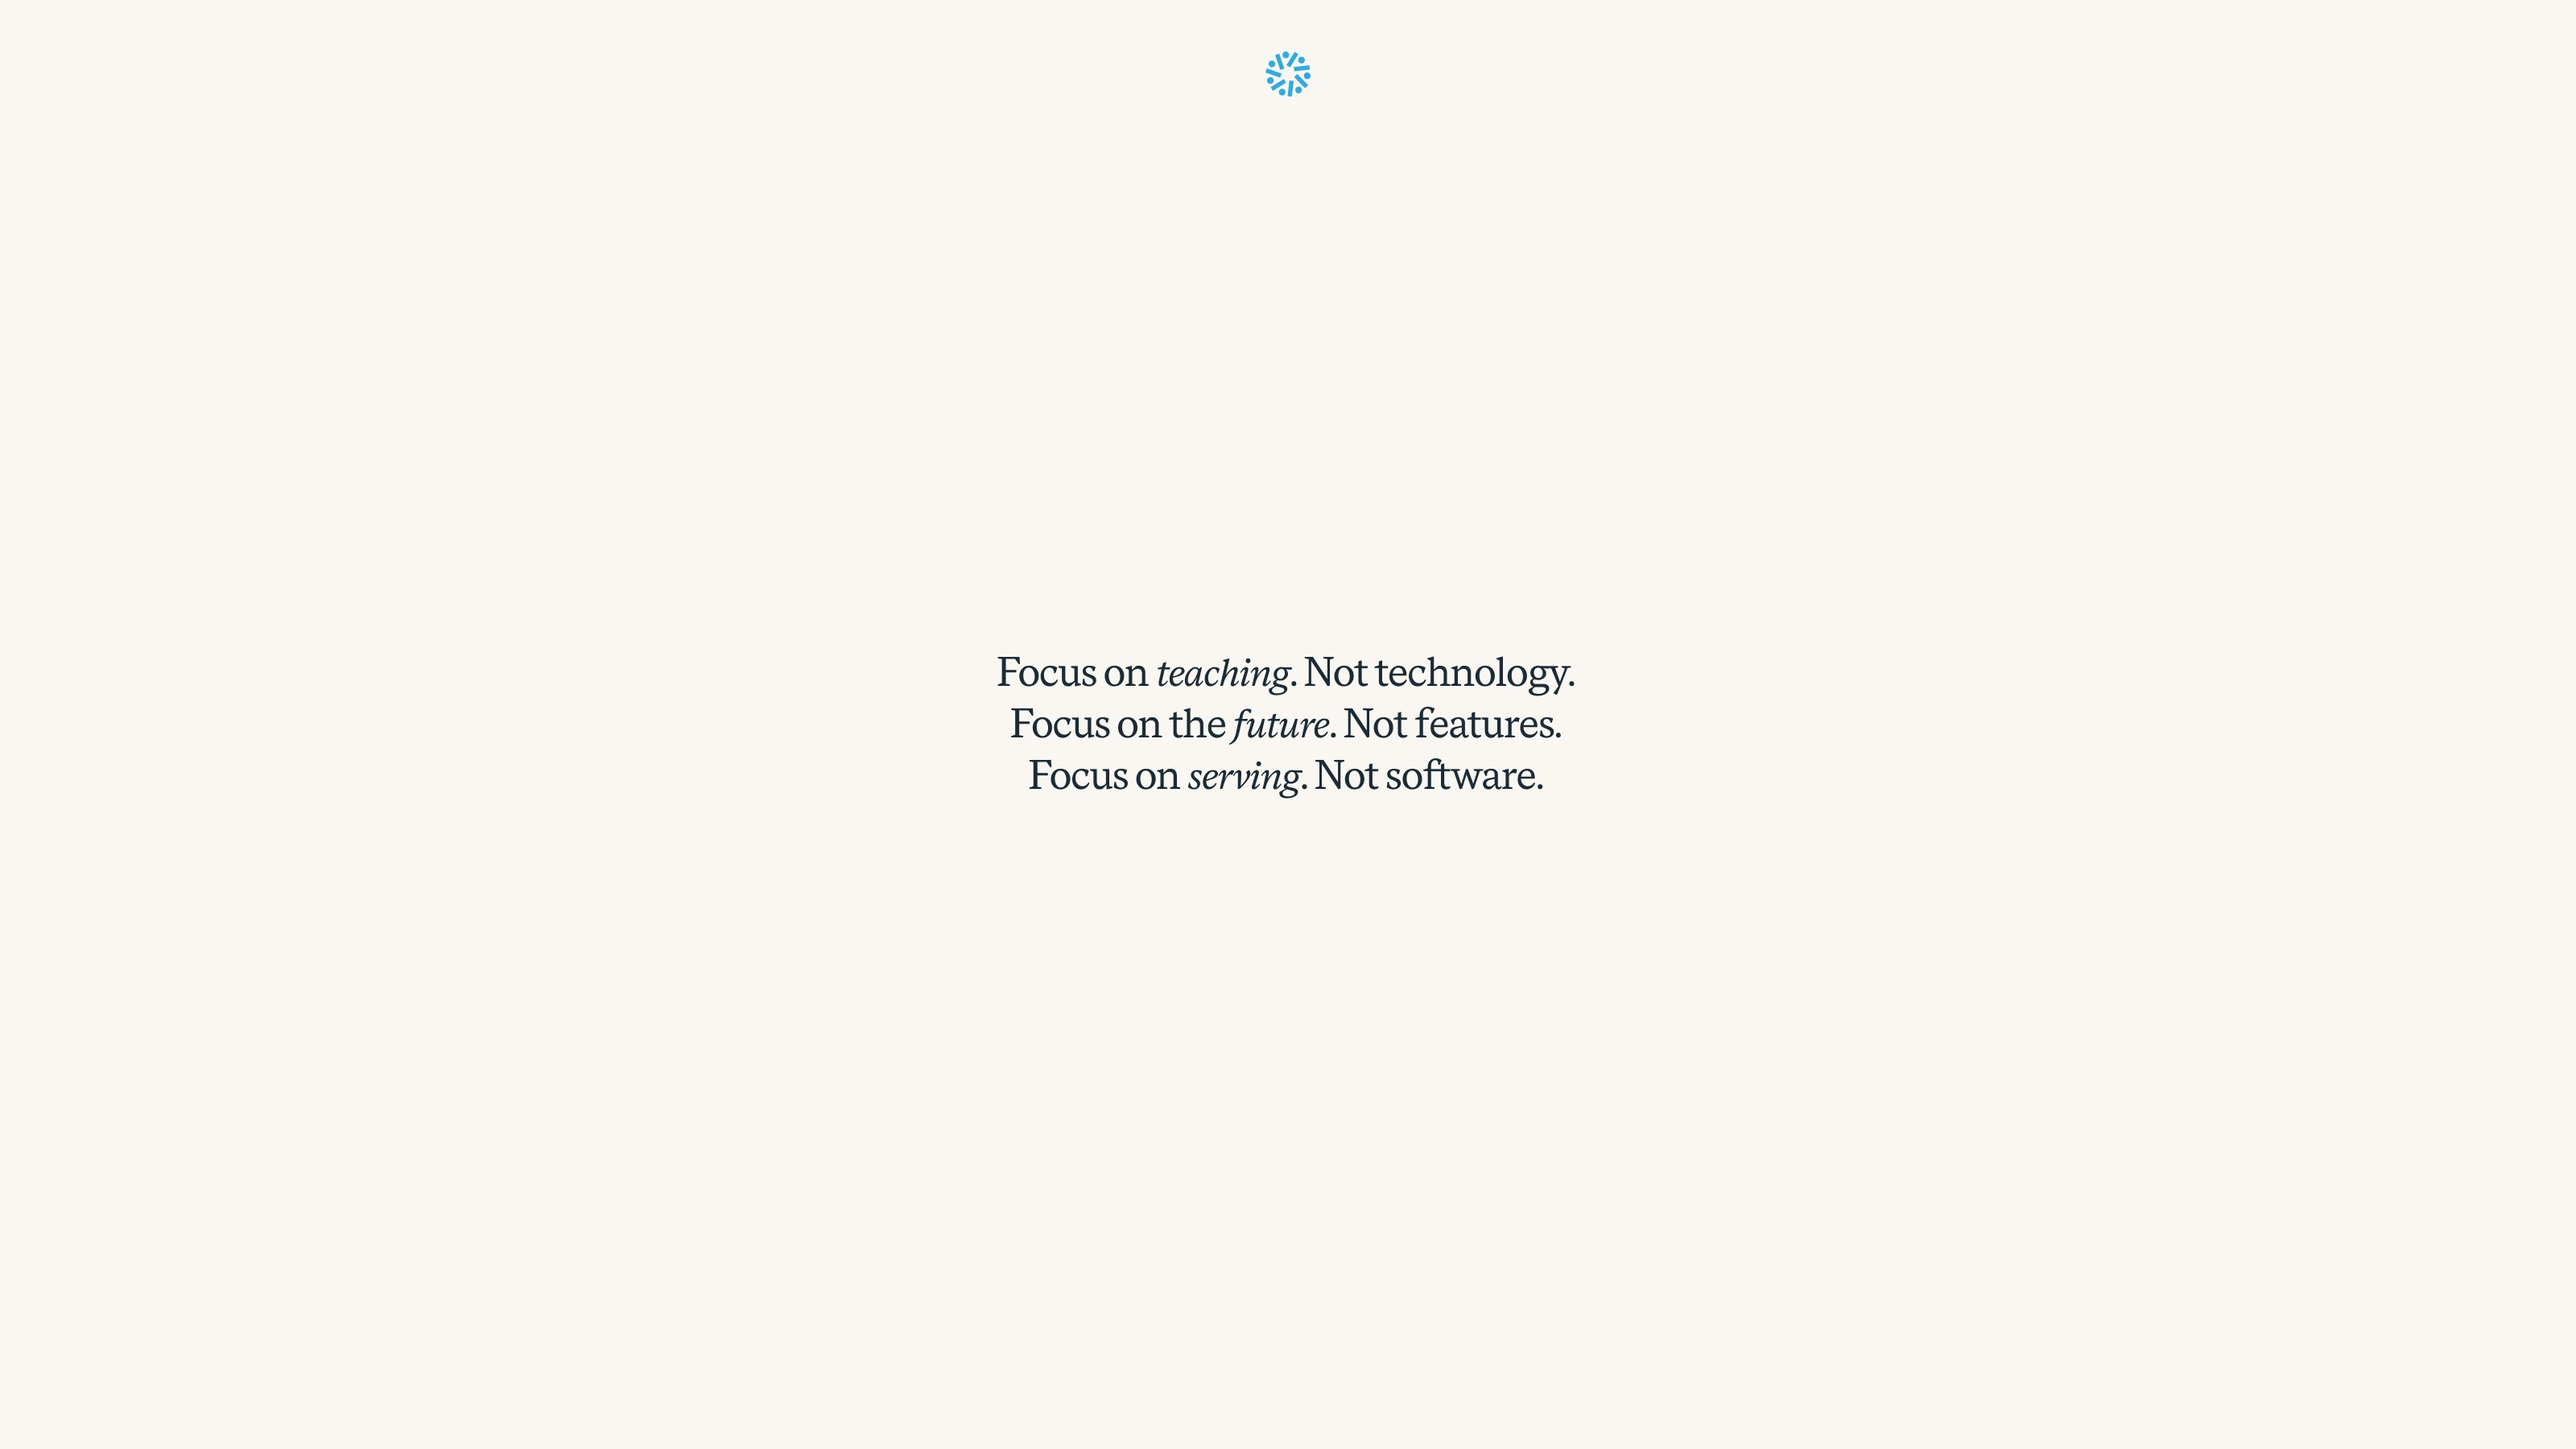
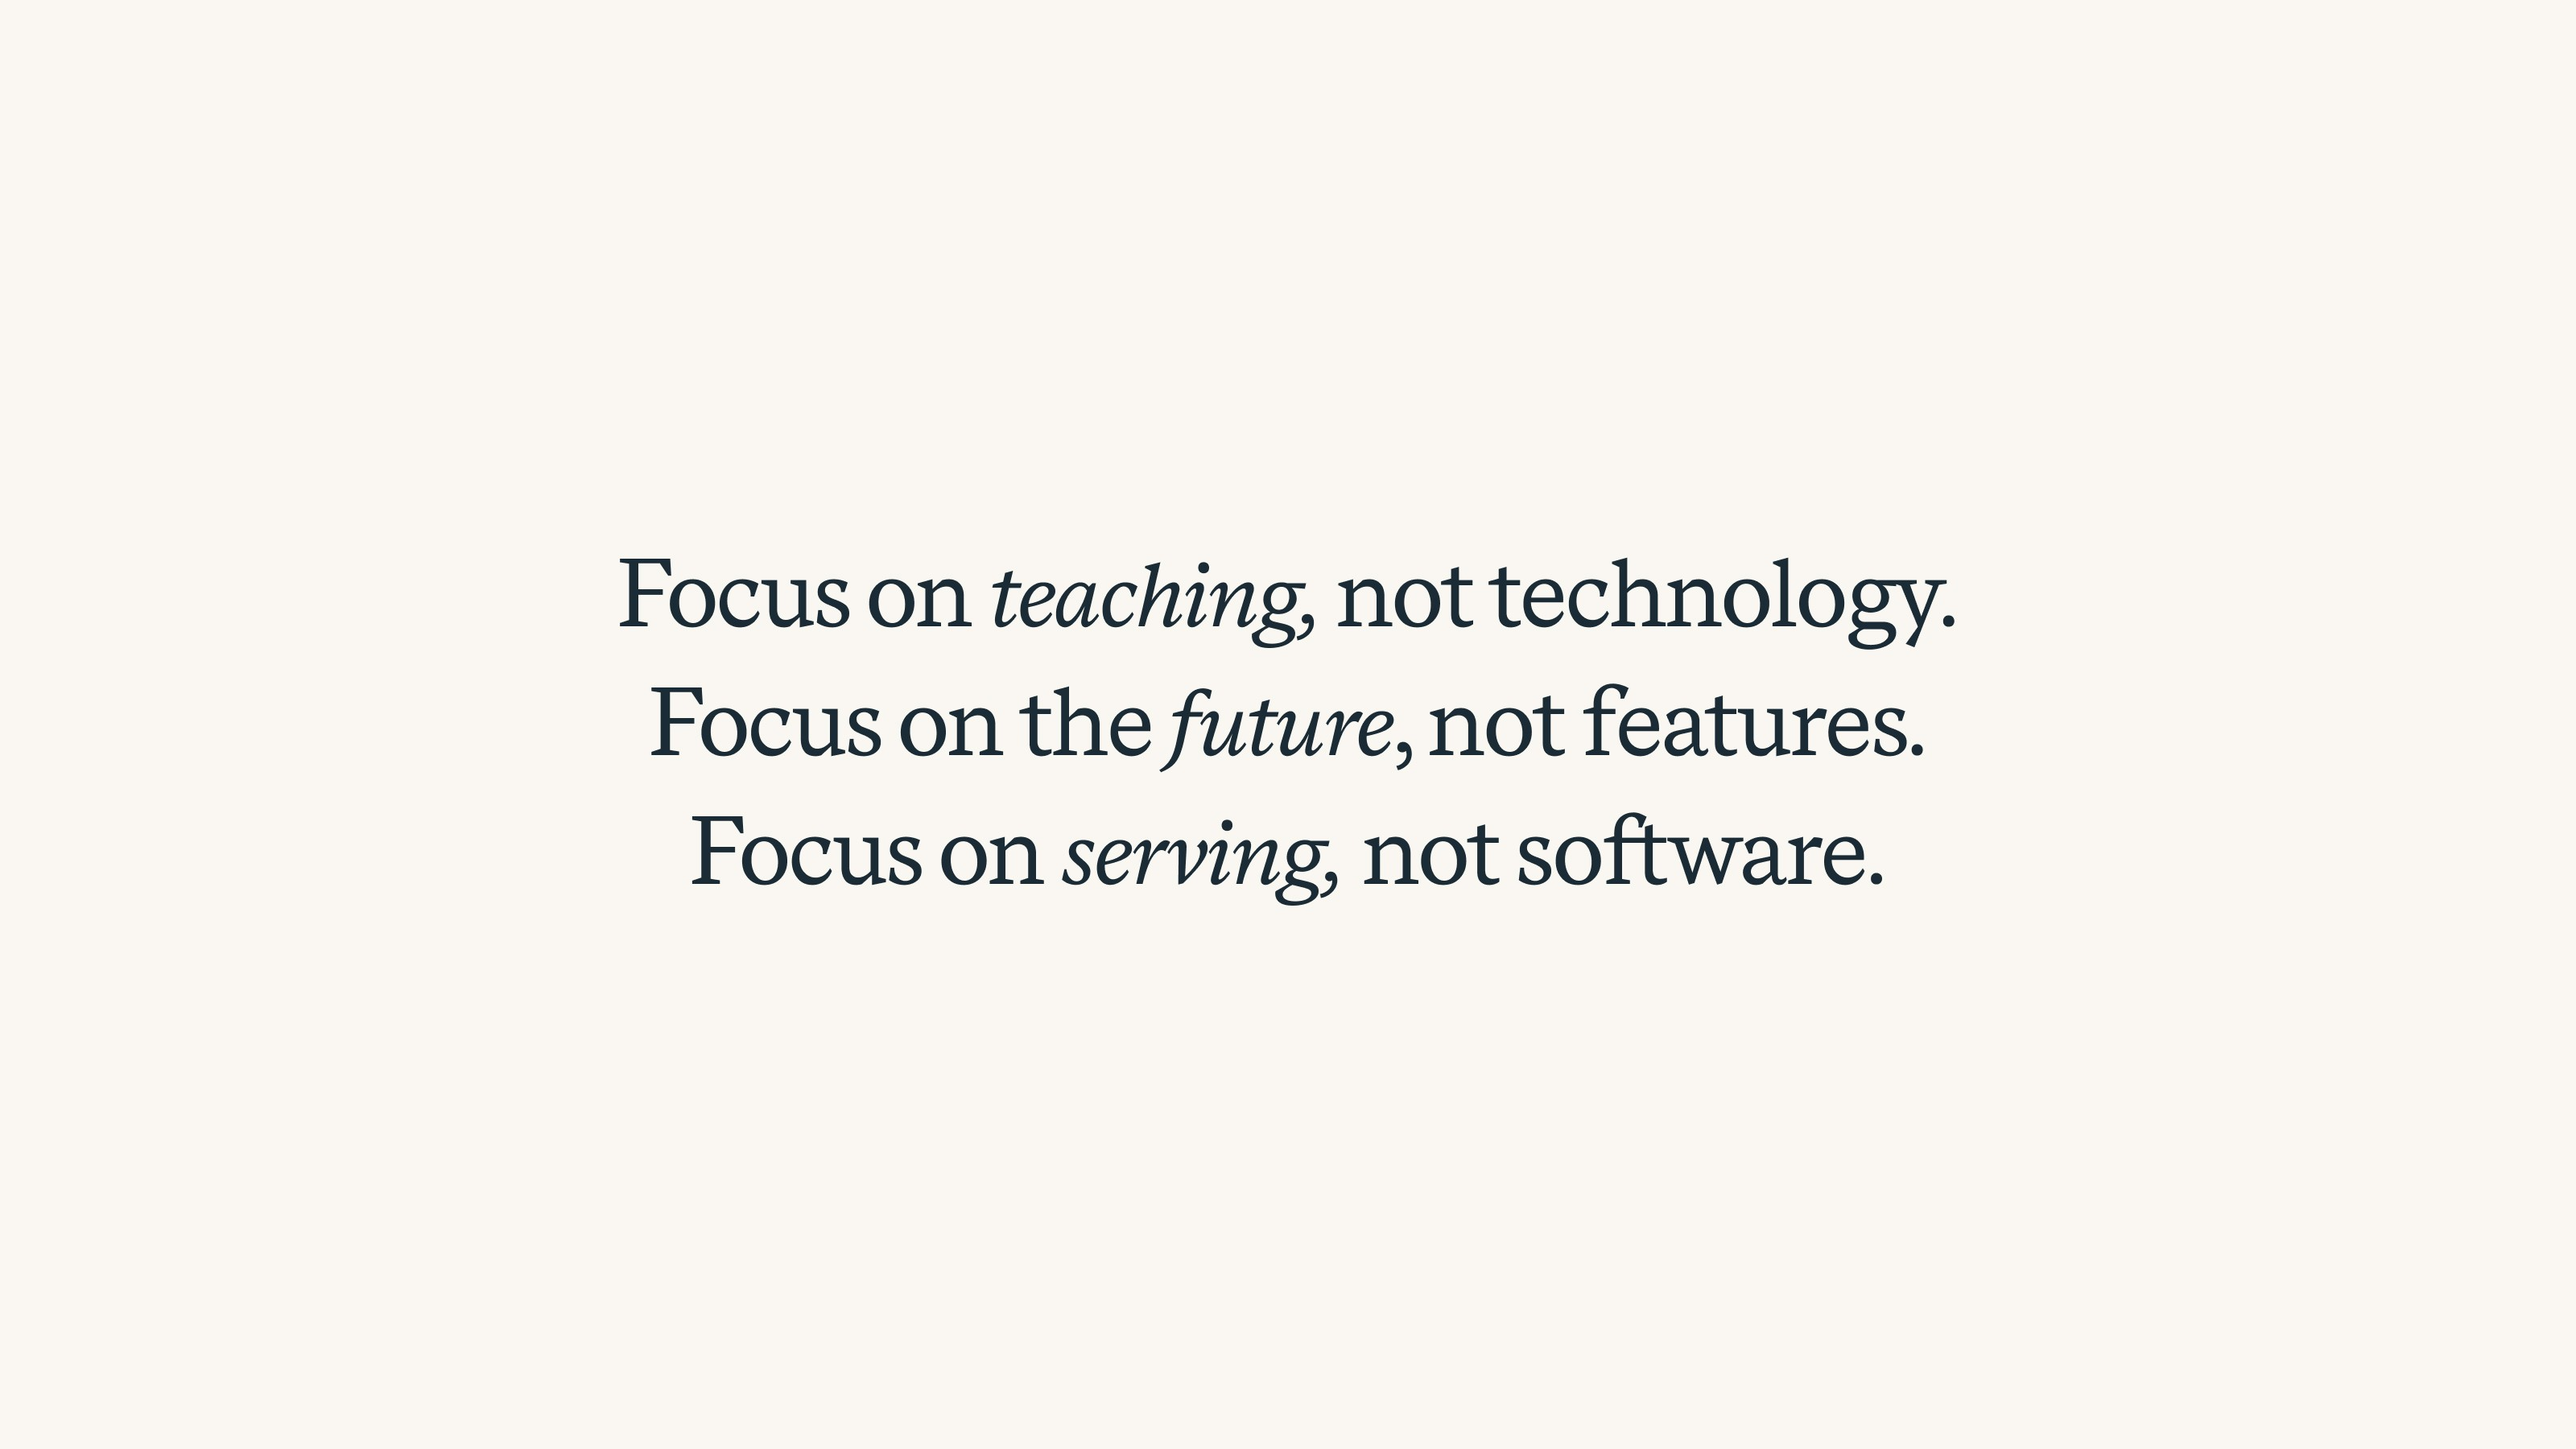
subtitles

Changed region(s): [[0.2188, 0.3733, 0.75, 0.6222], [0.4688, 0.0311, 0.5312, 0.0622]]

diff --git a/index.html b/index.html
@@ -33,7 +33,7 @@ featured_image: /images/social.jpg
 
 					<div class="portfolio-item__content">
 						<h2 class="portfolio-item__title displayMedium">{{ project.title }}</h2>
-						<h3 class="portfolio-item__subtitle displayMedium">{{ project.description }}</h3>
+						<h3 class="portfolio-item__subtitle displayMedium">{{ project.subtitle }}</h3>
 						<p class="portfolio-item__services caption">{{ project.services }}</p>
 					</div>
 

diff --git a/_projects/populi.md b/_projects/populi.md
@@ -1,8 +1,9 @@
 ---
 layout: project
 title: 'Populi'
+subtitle: Focus on teaching, not technology
 date: 2021-06-30
-description: Focus on teaching, not technology
+description: Populi Brand and Website by Overline Studio
 intro: Populi is a fully hosted, web-based college information management system. Since 2007, they've worked with hundreds of schools to run more efficiently and offer a better education experience to their students. We worked with them to redesign their brand identity, establish a new visual language, as well as a new marketing website.
 services: Strategy, Identity, Digital
 featured_image: '/images/projects/populi/thumbnail.jpg'
@@ -14,18 +15,19 @@ cover_video: 'https://player.vimeo.com/video/720422079'
 <hr class="span-12" />
 
 <div class="span-12 md-span-6">
-    <h3 class="displayLarge">Identity</h3>
+    <h3 class="displayLarge">Strategy</h3>
 </div>
 
 <div class="span-12 md-span-6 md-start-7">
-    <p>Write about it</p>
+    <p>We began with a series of discussions with key team members to identify which of Populi’s attributes were most important. We also began verbalize how Populi helps customers go from where they are to where they want to be.</p>
+    <p>It was through these discussions that we landed on a few key alliterative phrases: Focus on teaching, not technology. Focus on the future, not features. Focus on serving, not software.</p>
 </div>
 
-<div class="span-12 pt2">
-    <img src="{{ '/images/projects/populi/logo.jpg' | relative_url }}" />
+<div class="span-12 pt1 lg-pt2">
+    <img src="{{ '/images/projects/populi/statement.jpg' | relative_url }}" />
 </div>
 
-<div class="span-12 pt2">
+<div class="span-12 pt1 lg-pt2">
     <img src="{{ '/images/projects/populi/session.jpg' | relative_url }}" />
 </div>
 
@@ -36,8 +38,24 @@ cover_video: 'https://player.vimeo.com/video/720422079'
     <img src="{{ '/images/projects/populi/archetypes.jpg' | relative_url }}" />
 </div>
 
+<div class="span-12 md-span-10 pb6 mb6 mt10">
+    <blockquote><span>“</span>You made the process of discovery fun. It's like we went going on an adventure together to discover who we are, and our brand emerged from that.”</blockquote>
+    <p>Isaac Grauke, CEO of Populi</p>
+</div>
+
+<hr class="span-12" />
+
+<div class="span-12 md-span-6">
+    <h3 class="displayLarge">Identity</h3>
+</div>
+
+<div class="span-12 md-span-6 md-start-7">
+    <p>Write about it</p>
+</div>
+
+
 <div class="span-12 pt2">
-    <img src="{{ '/images/projects/populi/statement.jpg' | relative_url }}" />
+    <img src="{{ '/images/projects/populi/logo.jpg' | relative_url }}" />
 </div>
 
 <div class="span-12 pt2">

diff --git a/_projects/cartloop.md b/_projects/cartloop.md
@@ -1,8 +1,9 @@
 ---
 layout: project
 title: 'Cartloop'
+subtitle: 'Conversational text marketing'
 date: 2021-08-31
-description: Conversational text marketing
+description: Cartloop Brand Identity by Overline Studio
 intro: Cartloop is an ecommerce startup that's changing the way people interact with brands. Instead of automated messages (or chat bots), Cartloop is helping brands grow by creating super-personalized experiences throughout the entire shopping journey. We worked with Cartloop to create a new brand strategy and visual identity. We also created a unique visual language that would scale across various touchpoints like website, illustrations, and social media. <p>Collaborators&#x3a; <a target="_blank" href="https://studiomightymighty.com/">Ryan Harrison</a></p>
 services: Strategy, Identity
 featured_image: '/images/projects/cartloop/thumbnail.jpg'

diff --git a/_projects/maddox.md b/_projects/maddox.md
@@ -1,8 +1,9 @@
 ---
 layout: project
 title: 'Maddox'
+subtitle: 'Transformers. Fast. Easy.'
 date: 2022-03-31
-description: Top Quality Transformers
+description: Maddox Brand Identity by Overline Studio
 intro: Maddox produces and stocks the highest quality fully reconditioned and new transformers available on the market. Founded by a team of industry veterans, Maddox is focused exclusively on the transformer and transformer-related needs of industrial and commercial clients. We worked with the Maddox team to refresh their visual identity, establish a bold visual language, and design a new marketing and e-commerce website.
 services: Identity, Digital
 featured_image: '/images/projects/maddox/thumbnail.jpg'

diff --git a/_projects/bobtail.md b/_projects/bobtail.md
@@ -1,8 +1,9 @@
 ---
 layout: project
 title: 'Bobtail'
+subtitle: 'Keep the cash flowing'
 date: 2021-05-20
-description: Keep the cash flowing
+description: Bobtail Brand Identity by Overline Studio
 intro: Bobtail is on a mission to deliver freedom from inefficiencies in the supply chain and make people happy. We worked with the founders to align on brand attributes that reflected their outlook on the future. Through a cheerful color palette, clean illustrations, and photos of real truckers on the job, the brand has a optimistic tone that reflects their vision of frictionless supply chain.
 services: Identity, Digital
 featured_image: 'images/projects/bobtail/thumbnail.jpg'

diff --git a/_projects/thrive-digital.md b/_projects/thrive-digital.md
@@ -1,8 +1,9 @@
 ---
 layout: project
 title: 'Thrive Digital'
+subtitle: Digital and Performance Marketing Agency
 date: 2022-06-14
-description: Grow through advertising systems
+description: Thrive Digital Website Design by Overline Studio
 intro: Thrive Digital is a performance marketing agency located in Vancouver, Canada. They plan, implement, and optimize online advertising campaigns that are seen by millions of people around the world. We worked with them to define a new content strategy for their website, and brought their brand to life through a UI design system.
 services: Identity, Digital
 featured_image: 'images/projects/thrive/thumbnail.jpg'

diff --git a/_projects/tenicor.md b/_projects/tenicor.md
@@ -1,8 +1,9 @@
 ---
 layout: project
 title: 'Tenicor'
+subtitle: Concealment Holsters
 date: 2021-06-4
-description: Mindset, Tactics, Skills, Equipment
+description: Tenicor Brand Refresh by Overline Studio
 intro: Tenicor is an American design, development, manufacturing, and training company. Since 2008, they've been honing their craft and developing products that work. We worked with the Tenicor team to refresh their original brand identity, as well as design a visual language to support a new digital presence.
 services: Identity, Digital
 featured_image: '/images/projects/tenicor/thumbnail.jpg'

diff --git a/_projects/navigo.md b/_projects/navigo.md
@@ -1,8 +1,9 @@
 ---
 layout: project
 title: 'Navigo'
+subtitle: 'All-in-one Risk OS'
 date: 2020-08-31
-description: All-in-one Risk OS
+description: Navigo Brand Identity by Overline Studio
 intro: Navigo builds tools to expose and manage risk. They believe when people see the danger they face, connect with others, and act in light of it, they’re able to map a better future. We work with Navigo in an ongoing capacity to design their visual identity, digital products, and public-facing website. 
 services: Strategy, Identity, Digital
 featured_image: '/images/projects/navigo/thumbnail.jpg'

diff --git a/_projects/treefort.md b/_projects/treefort.md
@@ -1,8 +1,9 @@
 ---
 layout: project
 title: 'Treefort'
+description: White-label Streaming Platform
 date: 2021-09-10
-description: White-label streaming platform
+description: Treefort UI/UX by Overline Studio
 intro: Treefort is a white-label media streaming platform. We worked with their product development team to establish a UI design system, as well as the dashboard to the content management system.
 services: Digital
 featured_image: '/images/projects/treefort/thumbnail.jpg'

diff --git a/_pages/about.md b/_pages/about.md
@@ -9,7 +9,7 @@ featured_image: /images/social.jpg
 
 	<div class="wrap">
 
-		<div class="span-12 lg-span-10 mt10 pt10 sm-mb6">
+		<div class="span-12 lg-span-10 mt8 pt10 sm-mb6">
 			<h2 class="displayXLarge">As organizations grow, design suffers. We help people gain certainty in their brand and products through strategy, visual identity, and digital design.</h2>
         </div>
 
